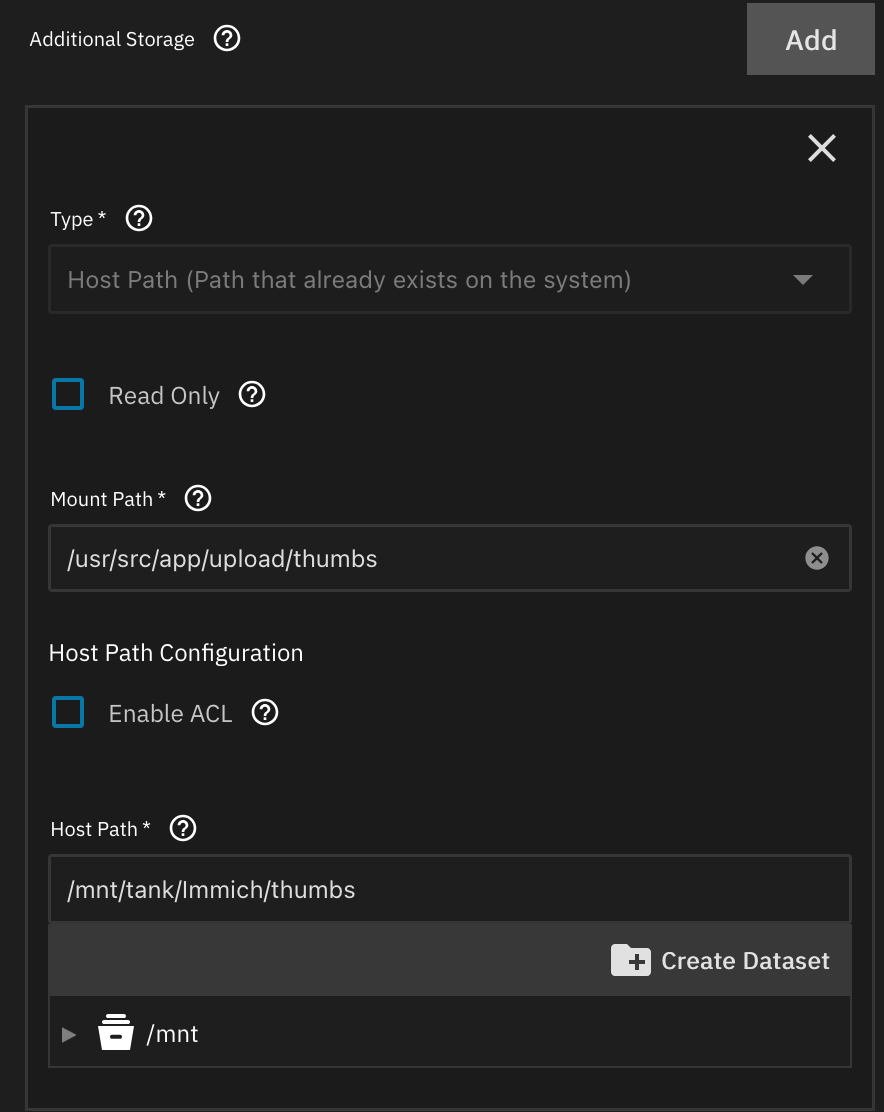
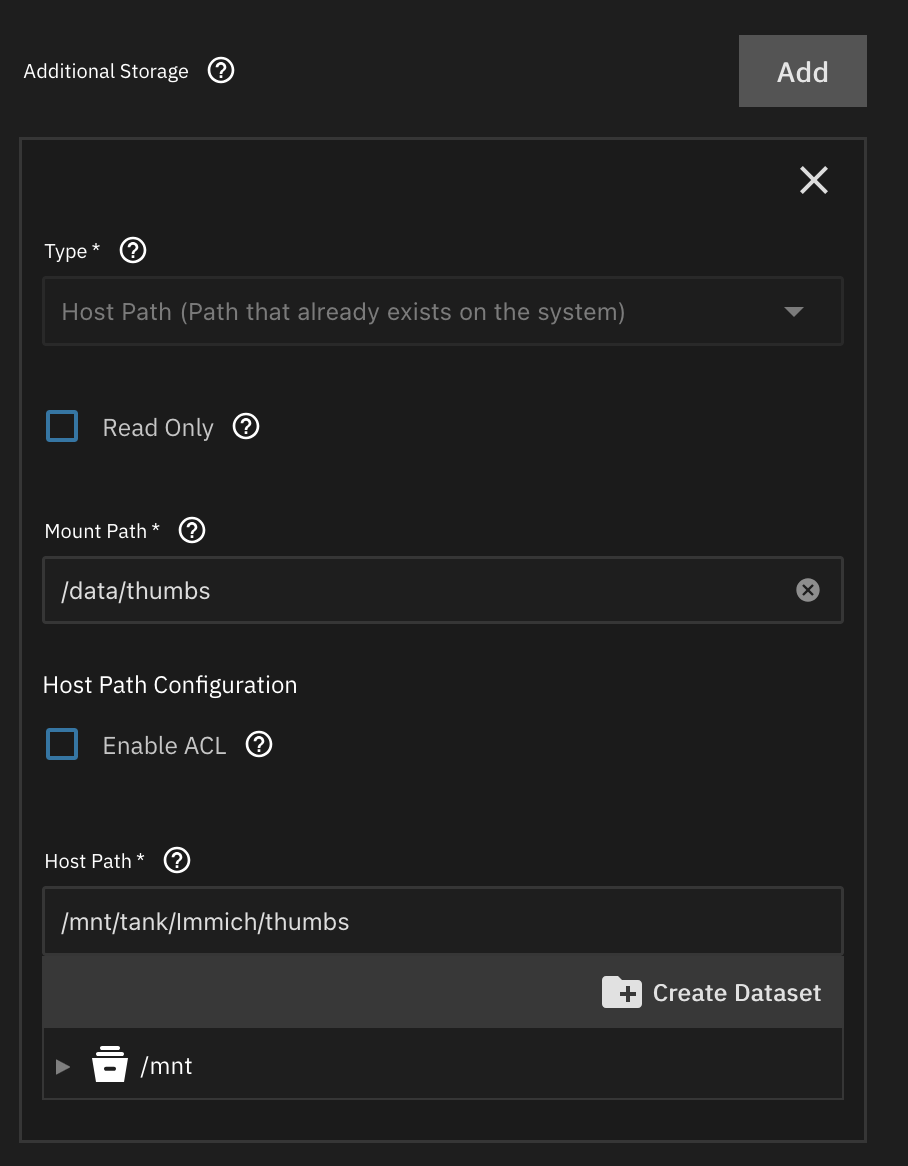
Fix: compile error + new default path for data

diff --git a/docs/docs/install/truenas.md b/docs/docs/install/truenas.md
@@ -4,6 +4,7 @@ sidebar_position: 80
 
 import Tabs from '@theme/Tabs';
 import TabItem from '@theme/TabItem';
+import Admonition from '@theme/Admonition';
 
 # TrueNAS [Community]
 
@@ -225,9 +226,9 @@ Once **Host Path** is selected, a checkbox appears with **_Automatic Permissions
 
 #### [External Libraries](/docs/features/libraries)
 
-:::danger Advanced Users Only
+<Admonition type="danger" title="Advanced Users Only">
 This feature should only be used by advanced users. If this is your first time installing Immich, then DO NOT mount an external library until you have a working setup.
-:::
+</Admonition>
 
 <img
 src={require('./img/truenas/truenas09.webp').default}
@@ -245,12 +246,11 @@ If you want to be able to delete files or edit metadata in the external library 
 - **Host Path** is the location on the TrueNAS Community Edition server where your external library is located.
 - **Read Only** is a checkbox that you can tick if you want to prevent Immich from modifying the files in the external library. This is useful if you want to use Immich to view and search your external library without modifying it.
 
-:::warning
+<Admonition type="warning">
 Each mount path MUST be something unique and should NOT be your library or upload location or a Linux directory like `/lib`.
 
 A general recommendation is to mount any external libraries to a path beginning with `/mnt` or `/media` followed by a unique name, such as `/mnt/external-libraries` or `/media/my-external-libraries`. If you plan to mount multiple external libraries, you can use paths like `/mnt/external-libraries/library1`, `/mnt/external-libraries/library2`, etc.
-
-:::
+</Admonition>
 
 </details>
 
@@ -259,9 +259,9 @@ A general recommendation is to mount any external libraries to a path beginning 
 
 #### Multiple Datasets for Immich Storage
 
-:::danger Advanced Users Only
+<Admonition type="danger" title="Advanced Users Only">
 This feature should only be used by advanced users.
-:::
+</Admonition>
 
 Immich can use multiple datasets for its storage, allowing you to manage your data more granularly, as it was done in the old storage configuration. This is useful if you want to separate your data into different datasets for performance or organisational reasons.
 
@@ -274,14 +274,15 @@ To mount these datasets:
 
 1. Add an **Additional Storage** entry for each dataset you want to use.
 2. Select **Type** as **Host Path (Path that already exists on the system)**.
-3. Enter the **Mount Path** with `/usr/src/app/upload/<folder-name>`. The `<folder-name>` is the name of the folder you want to mount, for example, `library`, `upload`, `thumbs`, `profile`, `encoded-video`, or `backups`.
-   :::danger
-   You have to write the full path, including `/usr/src/app/upload/`, as Immich expects the data to be in that location.
-   If you do not include this path, Immich will not be able to find the data and will not write the data to the location you specified.
-   :::
+3. Enter the **Mount Path** with `/data/<folder-name>`. The `<folder-name>` is the name of the folder you want to mount, for example, `library`, `upload`, `thumbs`, `profile`, `encoded-video`, or `backups`.
+
+<Admonition type="danger" title="Important">
+You have to write the full path, including `/data/`, as Immich expects the data to be in that location.  
+If you do not include this path, Immich will not be able to find the data and will not write the data to the location you specified.
+</Admonition>
+
 4. Select the **Host Path** as the dataset you created for that folder, for example, `/mnt/tank/immich/library`, `/mnt/tank/immich/upload`, etc.
 
-Below is an example of how to set up the additional storage for the `thumbs` dataset:
 <img
 src={require('./img/truenas/truenas10.webp').default}
 width="40%"
@@ -428,7 +429,7 @@ If everything went well, you should now be able to access Immich with the new st
           - For the **Postgres Data Storage**, keep **Host Path (Path that already exists on the system)** and then select the existing dataset you used for Postgres data storage, for example, `pgData`.
           - Following the instructions in the [Multiple Datasets for Immich Storage](#additional-storage-advanced-users) section, you can add, **for each old dataset**, a new Additional Storage with the following settings:
             - **Type**: `Host Path (Path that already exists on the system)`
-            - **Mount Path**: `/usr/src/app/upload/<folder-name>` (e.g. `/usr/src/app/upload/library`)
+            - **Mount Path**: `/data/<folder-name>` (e.g. `/data/library`)
             - **Host Path**: `/mnt/<your-pool-name>/<dataset-name>` (e.g. `/mnt/tank/immich/library`)
             - **Read Only**: Keep it unticked as Immich needs to write to these datasets.
 
